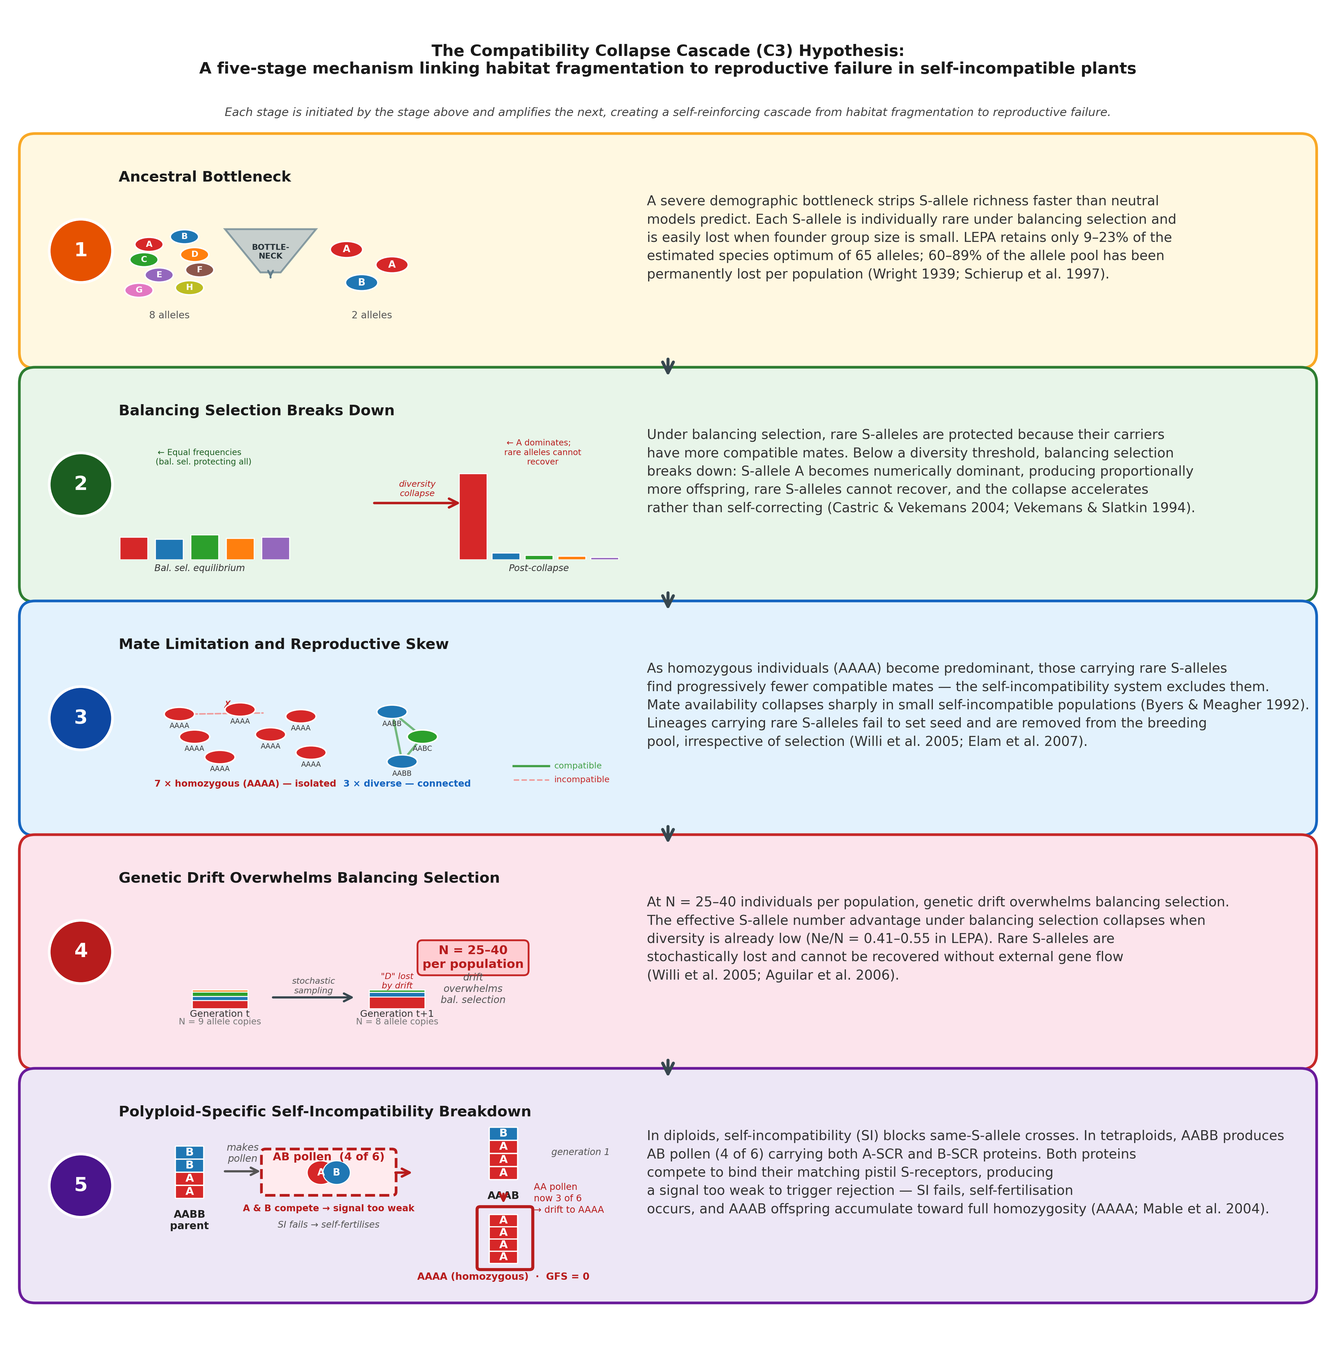
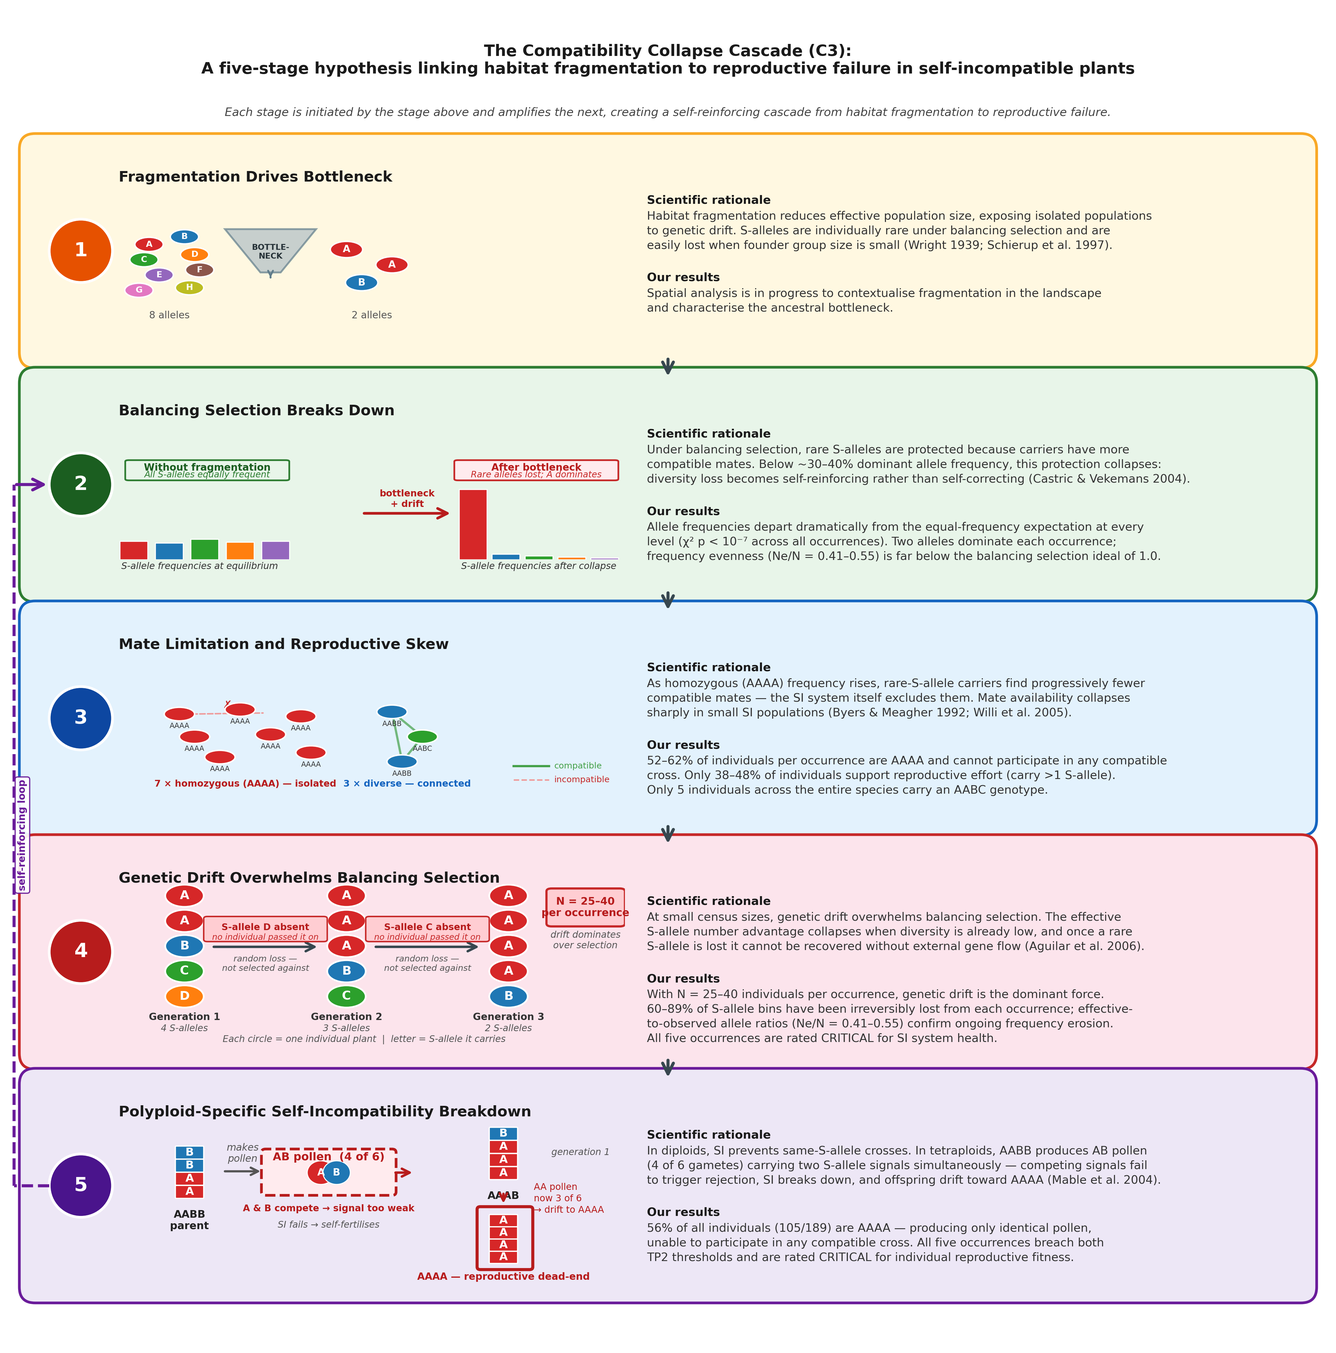
Imporved C3 hypothesis and figure

diff --git a/Scripts/SRK_AAAA_cascade_hypothesis.py b/Scripts/SRK_AAAA_cascade_hypothesis.py
@@ -52,43 +52,66 @@ ARROW_COL    = '#37474F'
 
 # ─── stage text content ────────────────────────────────────────────────────────
 TITLES = [
-    'Ancestral Bottleneck',
+    'Fragmentation Drives Bottleneck',
     'Balancing Selection Breaks Down',
     'Mate Limitation and Reproductive Skew',
     'Genetic Drift Overwhelms Balancing Selection',
     'Polyploid-Specific Self-Incompatibility Breakdown',
 ]
 
-BODY = [
-    ("A severe demographic bottleneck strips S-allele richness faster than neutral\n"
-     "models predict. Each S-allele is individually rare under balancing selection and\n"
-     "is easily lost when founder group size is small. LEPA retains only 9–23% of the\n"
-     "estimated species optimum of 65 alleles; 60–89% of the allele pool has been\n"
-     "permanently lost per population (Wright 1939; Schierup et al. 1997)."),
+# Two-part body text: (scientific rationale, our results)
+BODY_SCI = [
+    # Stage 1
+    ("Habitat fragmentation reduces effective population size, exposing isolated populations\n"
+     "to genetic drift. S-alleles are individually rare under balancing selection and are\n"
+     "easily lost when founder group size is small (Wright 1939; Schierup et al. 1997)."),
 
-    ("Under balancing selection, rare S-alleles are protected because their carriers\n"
-     "have more compatible mates. Below a diversity threshold, balancing selection\n"
-     "breaks down: S-allele A becomes numerically dominant, producing proportionally\n"
-     "more offspring, rare S-alleles cannot recover, and the collapse accelerates\n"
-     "rather than self-correcting (Castric & Vekemans 2004; Vekemans & Slatkin 1994)."),
+    # Stage 2
+    ("Under balancing selection, rare S-alleles are protected because carriers have more\n"
+     "compatible mates. Below ~30–40% dominant allele frequency, this protection collapses:\n"
+     "diversity loss becomes self-reinforcing rather than self-correcting (Castric & Vekemans 2004)."),
 
-    ("As homozygous individuals (AAAA) become predominant, those carrying rare S-alleles\n"
-     "find progressively fewer compatible mates — the self-incompatibility system excludes them.\n"
-     "Mate availability collapses sharply in small self-incompatible populations (Byers & Meagher 1992).\n"
-     "Lineages carrying rare S-alleles fail to set seed and are removed from the breeding\n"
-     "pool, irrespective of selection (Willi et al. 2005; Elam et al. 2007)."),
+    # Stage 3
+    ("As homozygous (AAAA) frequency rises, rare-S-allele carriers find progressively fewer\n"
+     "compatible mates — the SI system itself excludes them. Mate availability collapses\n"
+     "sharply in small SI populations (Byers & Meagher 1992; Willi et al. 2005)."),
 
-    ("At N = 25–40 individuals per population, genetic drift overwhelms balancing selection.\n"
-     "The effective S-allele number advantage under balancing selection collapses when\n"
-     "diversity is already low (Ne/N = 0.41–0.55 in LEPA). Rare S-alleles are\n"
-     "stochastically lost and cannot be recovered without external gene flow\n"
-     "(Willi et al. 2005; Aguilar et al. 2006)."),
+    # Stage 4
+    ("At small census sizes, genetic drift overwhelms balancing selection. The effective\n"
+     "S-allele number advantage collapses when diversity is already low, and once a rare\n"
+     "S-allele is lost it cannot be recovered without external gene flow (Aguilar et al. 2006)."),
 
-    ("In diploids, self-incompatibility (SI) blocks same-S-allele crosses. In tetraploids, AABB produces\n"
-     "AB pollen (4 of 6) carrying both A-SCR and B-SCR proteins. Both proteins\n"
-     "compete to bind their matching pistil S-receptors, producing\n"
-     "a signal too weak to trigger rejection — SI fails, self-fertilisation\n"
-     "occurs, and AAAB offspring accumulate toward full homozygosity (AAAA; Mable et al. 2004)."),
+    # Stage 5
+    ("In diploids, SI prevents same-S-allele crosses. In tetraploids, AABB produces AB pollen\n"
+     "(4 of 6 gametes) carrying two S-allele signals simultaneously — competing signals fail\n"
+     "to trigger rejection, SI breaks down, and offspring drift toward AAAA (Mable et al. 2004)."),
+]
+
+BODY_RES = [
+    # Stage 1 — spatial analysis pending
+    ("Spatial analysis is in progress to contextualise fragmentation in the landscape\n"
+     "and characterise the ancestral bottleneck."),
+
+    # Stage 2
+    ("Allele frequencies depart dramatically from the equal-frequency expectation at every\n"
+     "level (χ² p < 10⁻⁷ across all occurrences). Two alleles dominate each occurrence;\n"
+     "frequency evenness (Ne/N = 0.41–0.55) is far below the balancing selection ideal of 1.0."),
+
+    # Stage 3
+    ("52–62% of individuals per occurrence are AAAA and cannot participate in any compatible\n"
+     "cross. Only 38–48% of individuals support reproductive effort (carry >1 S-allele).\n"
+     "Only 5 individuals across the entire species carry an AABC genotype."),
+
+    # Stage 4
+    ("With N = 25–40 individuals per occurrence, genetic drift is the dominant force.\n"
+     "60–89% of S-allele bins have been irreversibly lost from each occurrence; effective-\n"
+     "to-observed allele ratios (Ne/N = 0.41–0.55) confirm ongoing frequency erosion.\n"
+     "All five occurrences are rated CRITICAL for SI system health."),
+
+    # Stage 5
+    ("56% of all individuals (105/189) are AAAA — producing only identical pollen,\n"
+     "unable to participate in any compatible cross. All five occurrences breach both\n"
+     "TP2 thresholds and are rated CRITICAL for individual reproductive fitness."),
 ]
 
 # ─── figure geometry (data units = inches) ────────────────────────────────────
@@ -164,8 +187,8 @@ def inset(x0_data, y0_data, w_data, h_data):
 
 # ─── TITLE ────────────────────────────────────────────────────────────────────
 ax.text(FW / 2, TITLE_Y,
-        'The Compatibility Collapse Cascade (C3) Hypothesis:\n'
-        'A five-stage mechanism linking habitat fragmentation to reproductive failure in self-incompatible plants',
+        'The Compatibility Collapse Cascade (C3):\n'
+        'A five-stage hypothesis linking habitat fragmentation to reproductive failure in self-incompatible plants',
         ha='center', va='top', fontsize=13, fontweight='bold', color='#1A1A1A')
 
 ax.text(FW / 2, TITLE_Y - 0.72,
@@ -191,10 +214,21 @@ def draw_stage(i):
             ha='left', va='top', fontsize=12, fontweight='bold',
             color='#1A1A1A', zorder=4)
 
-    # Body text — dropped below title line to prevent overlap
-    ax.text(TEXT_X0, y_top - 0.52, BODY[i],
-            ha='left', va='top', fontsize=11, color='#333333',
-            linespacing=1.50, zorder=4)
+    # Section 1: Scientific rationale
+    ax.text(TEXT_X0, y_top - 0.52, 'Scientific rationale',
+            ha='left', va='top', fontsize=9.5, fontweight='bold',
+            color='#1A1A1A', zorder=4)
+    ax.text(TEXT_X0, y_top - 0.70, BODY_SCI[i],
+            ha='left', va='top', fontsize=9.5, color='#333333',
+            linespacing=1.40, zorder=4)
+
+    # Section 2: Our results
+    ax.text(TEXT_X0, y_top - 1.40, 'Our results',
+            ha='left', va='top', fontsize=9.5, fontweight='bold',
+            color='#1A1A1A', zorder=4)
+    ax.text(TEXT_X0, y_top - 1.58, BODY_RES[i],
+            ha='left', va='top', fontsize=9.5, color='#333333',
+            linespacing=1.40, zorder=4)
 
     # Return inset bounds for the schematic (leave 0.3 padding top/bottom)
     pad = 0.30
@@ -244,7 +278,7 @@ ax1.text(5.0, 0.3, '2 alleles', ha='center', fontsize=8, color='#555')
 # ─── SCHEMATIC 2: Balancing Selection Breakdown ───────────────────────────────
 ax2 = draw_stage(1)
 ax2.set_xlim(0, 10)
-ax2.set_ylim(0, 4.5)
+ax2.set_ylim(0, 5.5)
 
 alleles_eq  = list('ABCDE')
 freqs_eq    = [1.0, 0.9, 1.1, 0.95, 1.0]
@@ -252,33 +286,47 @@ alleles_col = [A_COL, B_COL, C_COL, D_COL, E_COL]
 
 freqs_col   = [3.8, 0.3, 0.2, 0.15, 0.1]
 
+# ── Context header: left panel ────────────────────────────────────────────────
+ax2.add_patch(mpatches.FancyBboxPatch(
+    (0.20, 4.35), 3.10, 0.95,
+    boxstyle='round,pad=0.07', fc='#E8F5E9', ec='#2E7D32', lw=1.4))
+ax2.text(1.75, 4.96, 'Without fragmentation', ha='center', va='center',
+         fontsize=8, fontweight='bold', color='#1B5E20')
+ax2.text(1.75, 4.58, 'All S-alleles equally frequent', ha='center', va='center',
+         fontsize=7.2, color='#2E7D32', style='italic')
+
+# ── Context header: right panel ───────────────────────────────────────────────
+ax2.add_patch(mpatches.FancyBboxPatch(
+    (6.70, 4.35), 3.10, 0.95,
+    boxstyle='round,pad=0.07', fc='#FFEBEE', ec='#C62828', lw=1.4))
+ax2.text(8.25, 4.96, 'After bottleneck', ha='center', va='center',
+         fontsize=8, fontweight='bold', color='#B71C1C')
+ax2.text(8.25, 4.58, 'Rare alleles lost; A dominates', ha='center', va='center',
+         fontsize=7.2, color='#C62828', style='italic')
+
 # "Equilibrium" bar chart (left)
 x0_eq = 0.3
 bw = 0.55
 for j, (f, col) in enumerate(zip(freqs_eq, alleles_col)):
     ax2.bar(x0_eq + j * (bw + 0.15), f, width=bw, color=col,
             ec='white', linewidth=0.8, bottom=0)
-ax2.text(1.6, -0.5, 'Bal. sel. equilibrium', ha='center', fontsize=7.5,
+ax2.text(1.6, -0.5, 'S-allele frequencies at equilibrium', ha='center', fontsize=7.5,
          color='#333', style='italic')
-ax2.text(1.6, 4.2, '← Equal frequencies\n   (bal. sel. protecting all)', ha='center',
-         fontsize=6.8, color='#1B5E20')
 
 # Arrow
-ax2.annotate('', xy=(6.8, 2.5), xytext=(5.0, 2.5),
-             arrowprops=dict(arrowstyle='->', color='#B71C1C', lw=2.0,
-                             mutation_scale=18))
-ax2.text(5.9, 2.8, 'diversity\ncollapse', ha='center', fontsize=7,
-         color='#B71C1C', style='italic')
+ax2.annotate('', xy=(6.6, 2.5), xytext=(4.8, 2.5),
+             arrowprops=dict(arrowstyle='->', color='#B71C1C', lw=2.2,
+                             mutation_scale=20))
+ax2.text(5.7, 2.85, 'bottleneck\n+ drift', ha='center', fontsize=7.5,
+         color='#B71C1C', fontweight='bold')
 
 # "Collapsed" bar chart (right)
 x0_col = 7.0
 for j, (f, col) in enumerate(zip(freqs_col, alleles_col)):
     ax2.bar(x0_col + j * (bw + 0.1), f, width=bw, color=col,
             ec='white', linewidth=0.8, bottom=0)
-ax2.text(8.3, -0.5, 'Post-collapse', ha='center', fontsize=7.5,
+ax2.text(8.3, -0.5, 'S-allele frequencies after collapse', ha='center', fontsize=7.5,
          color='#333', style='italic')
-ax2.text(8.3, 4.2, '← A dominates;\n   rare alleles cannot\n   recover',
-         ha='center', fontsize=6.8, color='#B71C1C')
 
 # ─── SCHEMATIC 3: Mate Limitation ────────────────────────────────────────────
 ax3 = draw_stage(2)
@@ -327,48 +375,83 @@ ax3.text(5.7, 0.3, '3 × diverse — connected', ha='center', fontsize=7.5,
          color='#1565C0', fontweight='bold')
 
 # ─── SCHEMATIC 4: Genetic Drift ──────────────────────────────────────────────
-ax4 = draw_stage(3)
+# Use a custom taller inset so the schematic has more room
+draw_stage(3)
+_y4_bot = STAGE_Y[3] - BOX_H
+ax4 = inset(SCH_X0, _y4_bot + 0.10, SCH_W, BOX_H - 0.30)
+ax4.set_facecolor('none')
 ax4.set_xlim(0, 10)
-ax4.set_ylim(0, 4.5)
+ax4.set_ylim(-0.55, 5.5)
 
-# Show two generations side by side with allele frequency bars + small N label
-gen1_alleles = [A_COL] * 4 + [B_COL] * 2 + [C_COL] * 2 + [D_COL] * 1
-gen2_alleles = [A_COL] * 5 + [B_COL] * 2 + [C_COL] * 1   # D lost by drift
+# Three generations laid out left → right, each as a column of individual circles
+# Allele pools per generation: progressive loss of rare alleles
+GEN_ALLELES = [
+    # Gen 0: 5 individuals, 4 alleles present (A×2, B×1, C×1, D×1)
+    ['A', 'A', 'B', 'C', 'D'],
+    # Gen 1: 5 individuals, D lost by drift (A×3, B×1, C×1)
+    ['A', 'A', 'A', 'B', 'C'],
+    # Gen 2: 5 individuals, C also lost (A×4, B×1)
+    ['A', 'A', 'A', 'A', 'B'],
+]
+GEN_LABELS  = ['Generation 1', 'Generation 2', 'Generation 3']
+GEN_LOST    = [None, 'D lost', 'C lost']
+ALLELE_COLS = {'A': A_COL, 'B': B_COL, 'C': C_COL, 'D': D_COL}
 
-def mini_pop(ax_in, x0, allele_list, gen_label, n_label, lost=None):
-    cols_unique = list(dict.fromkeys(allele_list))
-    counts = {c: allele_list.count(c) for c in cols_unique}
-    total = len(allele_list)
-    bar_w = 1.1
-    freqs = [counts[c] / total for c in cols_unique]
-    bottoms = np.cumsum([0] + freqs[:-1])
-    for fc, f, bot in zip(cols_unique, freqs, bottoms):
-        ax_in.bar(x0, f, width=bar_w, bottom=bot, color=fc,
-                  ec='white', lw=0.8)
-    ax_in.text(x0, -0.45, gen_label, ha='center', fontsize=7.8, color='#333')
-    ax_in.text(x0, -0.85, n_label, ha='center', fontsize=7.2, color='#777')
-    if lost:
-        ax_in.text(x0, 1.08, f'"{lost}" lost\nby drift', ha='center',
-                   fontsize=7, color='#B71C1C', style='italic')
+col_x = [1.3, 4.5, 7.7]   # x-centre of each generation column
+r_ind = 0.38               # individual circle radius
 
-mini_pop(ax4, 2.0, gen1_alleles, 'Generation t', 'N = 9 allele copies',)
-mini_pop(ax4, 5.5, gen2_alleles, 'Generation t+1', 'N = 8 allele copies', lost='D')
+# Caption clarifying what circles represent (distinct from Stage 5 allele stacks)
+ax4.text(4.85, -0.38, 'Each circle = one individual plant  |  letter = S-allele it carries',
+         ha='center', va='center', fontsize=7.5, color='#555', style='italic')
 
-# Arrow between generations
-ax4.annotate('', xy=(4.7, 0.6), xytext=(3.0, 0.6),
-             arrowprops=dict(arrowstyle='->', color=ARROW_COL,
-                             lw=1.8, mutation_scale=16))
-ax4.text(3.85, 0.82, 'stochastic\nsampling', ha='center',
-         fontsize=7, color='#555', style='italic')
+for gi, (alleles, label, lost_label) in enumerate(
+        zip(GEN_ALLELES, GEN_LABELS, GEN_LOST)):
+    cx = col_x[gi]
+    n  = len(alleles)
+    # vertical positions: evenly spaced
+    ys = np.linspace(4.55, 1.10, n)
 
-# Small N emphasis
-ax4.text(7.0, 2.2, 'N = 25–40\nper population', ha='center', fontsize=10,
-         fontweight='bold', color='#B71C1C',
-         bbox=dict(boxstyle='round,pad=0.4', fc='#FFCDD2', ec='#C62828', lw=1.5))
-ax4.text(7.0, 0.3, 'drift\noverwhelms\nbal. selection', ha='center', fontsize=8,
-         color='#555', style='italic')
+    # Draw individuals as coloured circles
+    for al, cy in zip(alleles, ys):
+        col = ALLELE_COLS[al]
+        ax4.add_patch(Circle((cx, cy), r_ind, fc=col, ec='white', lw=1.4, zorder=3))
+        ax4.text(cx, cy, al, ha='center', va='center',
+                 fontsize=10, fontweight='bold', color='white', zorder=4)
 
-ax4.set_ylim(-1.0, 4.5)
+    # Generation label below
+    ax4.text(cx, 0.55, label, ha='center', va='top',
+             fontsize=8, fontweight='bold', color='#333')
+
+    # Unique allele count badge
+    n_unique = len(set(alleles))
+    ax4.text(cx, 0.15, f'{n_unique} S-allele{"s" if n_unique > 1 else ""}',
+             ha='center', va='top', fontsize=7.5, color='#555', style='italic')
+
+    # "Lost" annotation between generations
+    if lost_label:
+        mid_x = (col_x[gi - 1] + cx) / 2
+        ax4.annotate('', xy=(cx - r_ind - 0.15, 2.80),
+                     xytext=(col_x[gi - 1] + r_ind + 0.15, 2.80),
+                     arrowprops=dict(arrowstyle='->', color=ARROW_COL,
+                                     lw=2.0, mutation_scale=18))
+        ax4.add_patch(mpatches.FancyBboxPatch(
+            (mid_x - 1.15, 3.05), 2.30, 0.72,
+            boxstyle='round,pad=0.07', fc='#FFCDD2', ec='#C62828', lw=1.2, zorder=3))
+        ax4.text(mid_x, 3.46, f'S-allele {lost_label[0]} absent', ha='center', va='center',
+                 fontsize=7.5, fontweight='bold', color='#B71C1C', zorder=4)
+        ax4.text(mid_x, 3.12, 'no individual passed it on', ha='center', va='center',
+                 fontsize=6.8, color='#C62828', style='italic', zorder=4)
+        ax4.text(mid_x, 2.52, 'random loss —\nnot selected against', ha='center', va='top',
+                 fontsize=7, color='#555', style='italic')
+
+# Small N box on the right
+ax4.add_patch(mpatches.FancyBboxPatch(
+    (8.55, 3.60), 1.35, 1.10,
+    boxstyle='round,pad=0.10', fc='#FFCDD2', ec='#C62828', lw=1.8, zorder=3))
+ax4.text(9.22, 4.15, 'N = 25–40\nper occurrence', ha='center', va='center',
+         fontsize=8.5, fontweight='bold', color='#B71C1C', zorder=4)
+ax4.text(9.22, 3.35, 'drift dominates\nover selection', ha='center', va='top',
+         fontsize=7.5, color='#555', style='italic')
 
 # ─── SCHEMATIC 5: Polyploid SI Breakdown — clean 3-zone layout ────────────────
 # Use a custom inset with minimal padding so the schematic is taller
@@ -456,7 +539,7 @@ ax5.add_patch(mpatches.FancyBboxPatch(
     (7.14, bot5 - 0.10), 0.98, 4*0.28 + 0.20,
     boxstyle='round,pad=0.06', fc='none', ec='#B71C1C', lw=2.5))
 
-ax5.text(7.6, bot5 - 0.22, 'AAAA (homozygous)  ·  GFS = 0',
+ax5.text(7.6, bot5 - 0.22, 'AAAA — reproductive dead-end',
          ha='center', va='top', fontsize=8,
          fontweight='bold', color='#B71C1C')
 
@@ -466,6 +549,31 @@ for i in range(4):
     y_to   = STAGE_Y[i + 1]
     down_arrow(FW / 2, y_from, y_to)
 
+
+# ─── FEEDBACK ARROW: Stage 5 → Stage 2 (self-reinforcing loop) ───────────────
+stage2_mid_y = STAGE_Y[1] - BOX_H / 2
+stage5_mid_y = STAGE_Y[4] - BOX_H / 2
+LOOP_X    = 0.06               # x of the vertical left-margin segment
+BADGE_EDGE = BADGE_X - 0.36   # left edge of the badge circles (= 0.46)
+
+# Exit from Stage 5 badge left edge going left
+ax.plot([BADGE_EDGE, LOOP_X], [stage5_mid_y, stage5_mid_y],
+        color='#6A1B9A', lw=2.5, linestyle='--', zorder=8)
+# Travel up the left margin
+ax.plot([LOOP_X, LOOP_X], [stage5_mid_y, stage2_mid_y],
+        color='#6A1B9A', lw=2.5, linestyle='--', zorder=8)
+# Arrowhead pointing into Stage 2 badge
+ax.annotate('', xy=(BADGE_EDGE, stage2_mid_y), xytext=(LOOP_X, stage2_mid_y),
+            arrowprops=dict(arrowstyle='->', color='#6A1B9A', lw=2.5,
+                            mutation_scale=22), zorder=9)
+
+# Label with white background so it reads clearly against the box edges
+ax.text(LOOP_X + 0.04, (stage2_mid_y + stage5_mid_y) / 2,
+        'self-reinforcing loop',
+        ha='left', va='center', fontsize=8, color='#6A1B9A',
+        fontweight='bold', rotation=90, zorder=10,
+        bbox=dict(boxstyle='round,pad=0.25', fc='white', ec='#6A1B9A',
+                  lw=1.0, alpha=0.92))
 
 # ─── SAVE ─────────────────────────────────────────────────────────────────────
 os.makedirs('figures', exist_ok=True)

diff --git a/LEPA_SRK_report.md b/LEPA_SRK_report.md
@@ -309,6 +309,12 @@ The presence of five AABC individuals — all confined to EO67 and EO70 — is p
 
 - *Mutational SI breakdown.* Rare loss-of-function mutations in SCR/SRK components can restore self-compatibility in otherwise SI species (Busch & Schoen 2008; Brennan et al. 2002). If a small number of LEPA individuals carry such mutations, they could participate in crosses normally rejected by the SI system, generating unusual allele combinations. However, AABC is more consistent with a compatible outcross than with selfing, making this the least parsimonious explanation.
 
+**The self-reinforcing loop: Stage 5 feeds back into Stage 2**
+
+The five stages of the C3 cascade are not strictly linear — the output of Stage 5 re-enters the cascade at Stage 2, creating a self-reinforcing genetic loop that operates independently of any further landscape-level disturbance. Stage 5 produces a progressive accumulation of AAAA individuals: each generation of SI breakdown via AB pollen increases the proportion of homozygous genotypes in the population. This AAAA accumulation directly worsens the conditions described in Stage 2 — it further skews S-allele frequencies toward dominance by allele A, reducing the effective number of alleles contributing to compatible matings and thereby further eroding the frequency-dependent selection that would otherwise protect rare alleles. In other words, once the cascade has been initiated by fragmentation (Stage 1), the genetic system becomes self-propelling: AAAA individuals produced in Stage 5 are themselves the substrate for the next cycle of Stage 2 collapse. This feedback explains why the cascade is increasingly irreversible over time and why intervention must target the genetic system — not merely population size — to break the loop.
+
+The feedback loop is represented in Figure 14 as a dashed arrow from Stage 5 to Stage 2. It is distinct from the direct downward cascade arrows (which represent sequential causation) and is shown as a feedback arc to reflect its role as an amplifying, rather than initiating, mechanism.
+
 **Conservation implication**
 
 The C3 hypothesis has a direct practical corollary: it provides the scientific foundation for informed breeding. Each stage of the cascade identifies a specific failure point that a targeted intervention can address. Increasing census population size within an EO alone is insufficient to reverse the AAAA trajectory — if the prevailing AAAA frequency exceeds the reproductive dead-end threshold, within-population growth simply produces more AAAA offspring (Stage 3–4 dynamic). Allele introduction via inter-EO crosses is the primary lever. Introducing B, C, and D S-alleles from the five AABC individuals into crosses with AAAA individuals simultaneously restores SI compatibility and re-engages balancing selection — the self-reinforcing mechanism that, once functional, will favour the spread of introduced S-alleles through subsequent generations (reversing Stage 2). The five AABC seed parents identified in Section 4b are therefore not merely high-priority for seed production in the current season; they represent the only endogenous genetic resource capable of reversing the C3 cascade, and their deployment constitutes the first step of an evidence-based informed breeding strategy.
